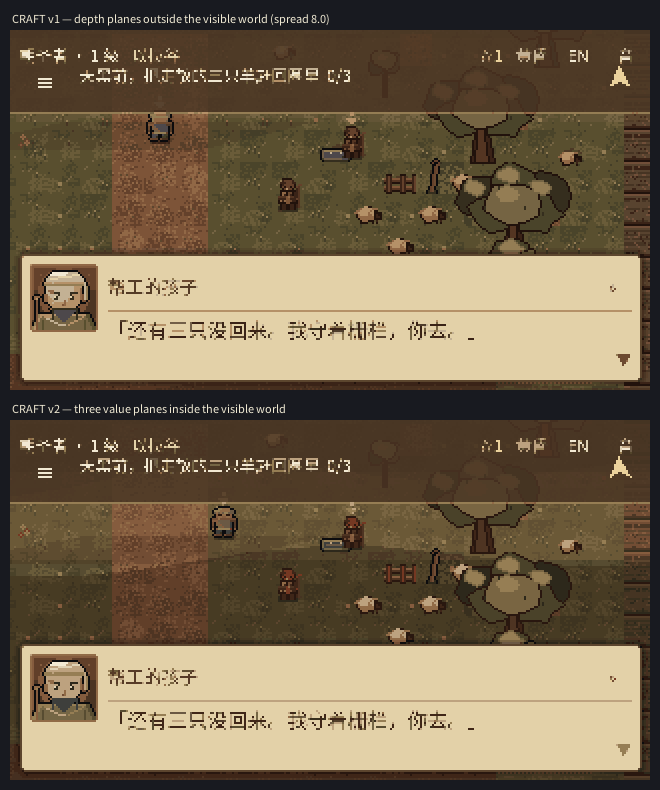
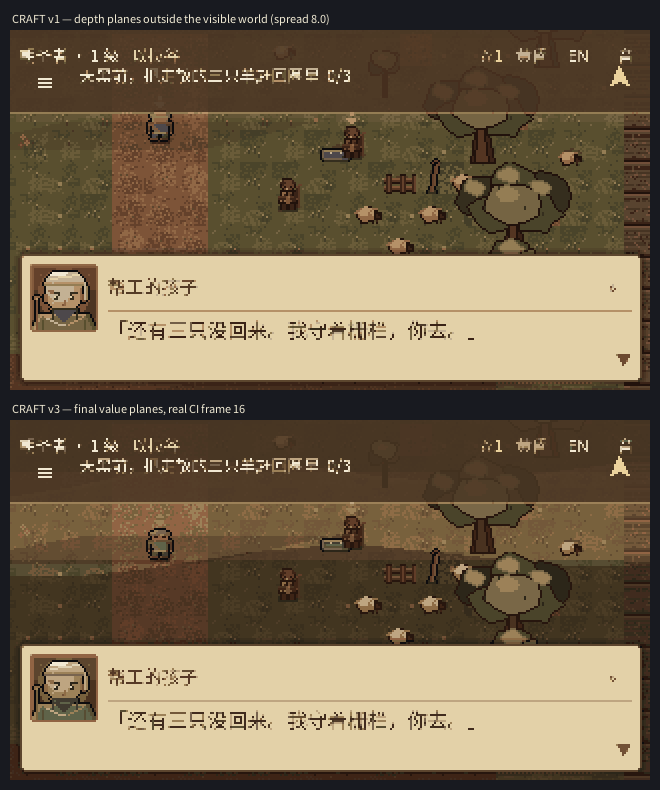
ART RESET: remove the hard stripe from the layered environment
v3 raised the real world value spread 12.3 -> 17.1, but reviewing the 3x
rendered frame exposed a defect the metric could not see: the middle ground
was a hard-edged rectangle, so the picture had a straight horizontal stripe
rather than a landscape. The art direction explicitly rejects mechanical
shapes. v4 keeps the same measured value hierarchy and replaces it with:
- twelve thin warm strips with a sine alpha envelope (no seam),
- larger irregular hill crest (sin 11 / cos 7),
- larger irregular near-shade edge (sin 10 / cos 6).

Also records the audit finding that the classic frame's higher spread
(20.1) is inflated by its dark HUD scrim bleeding into world rows 24-40,
not by genuine environment depth. That does not excuse a weak world, but
it means the proxy is not a depth score to be maximised blindly.

Preserves 16_craft_v3.png and adds 11_craft_iteration3.png.

diff --git a/tools/art_reset/measure_real_engine.py b/tools/art_reset/measure_real_engine.py
@@ -110,8 +110,16 @@ def main():
         report["16_craft_v2"] = metrics(r)
         sheet([
             ("CRAFT v2 — three planes correctly placed, too weak (spread 12.3)", r),
-            ("CRAFT v3 — strengthened planes + sunlit crest (current CI)", after),
+            ("CRAFT v4 — graded band, irregular edges (current CI)", after),
         ], DIAG / "10_craft_iteration2.png")
+    v3 = COMP / "16_craft_v3.png"
+    if v3.exists():
+        s = load(v3)
+        report["16_craft_v3"] = metrics(s)
+        sheet([
+            ("CRAFT v3 — stronger values but a hard horizontal stripe (17.1)", s),
+            ("CRAFT v4 — same values, graded band and organic edges", after),
+        ], DIAG / "11_craft_iteration3.png")
 
     out = COMP / "real_engine_metrics.json"
     out.write_text(json.dumps(report, indent=2) + "\n")
